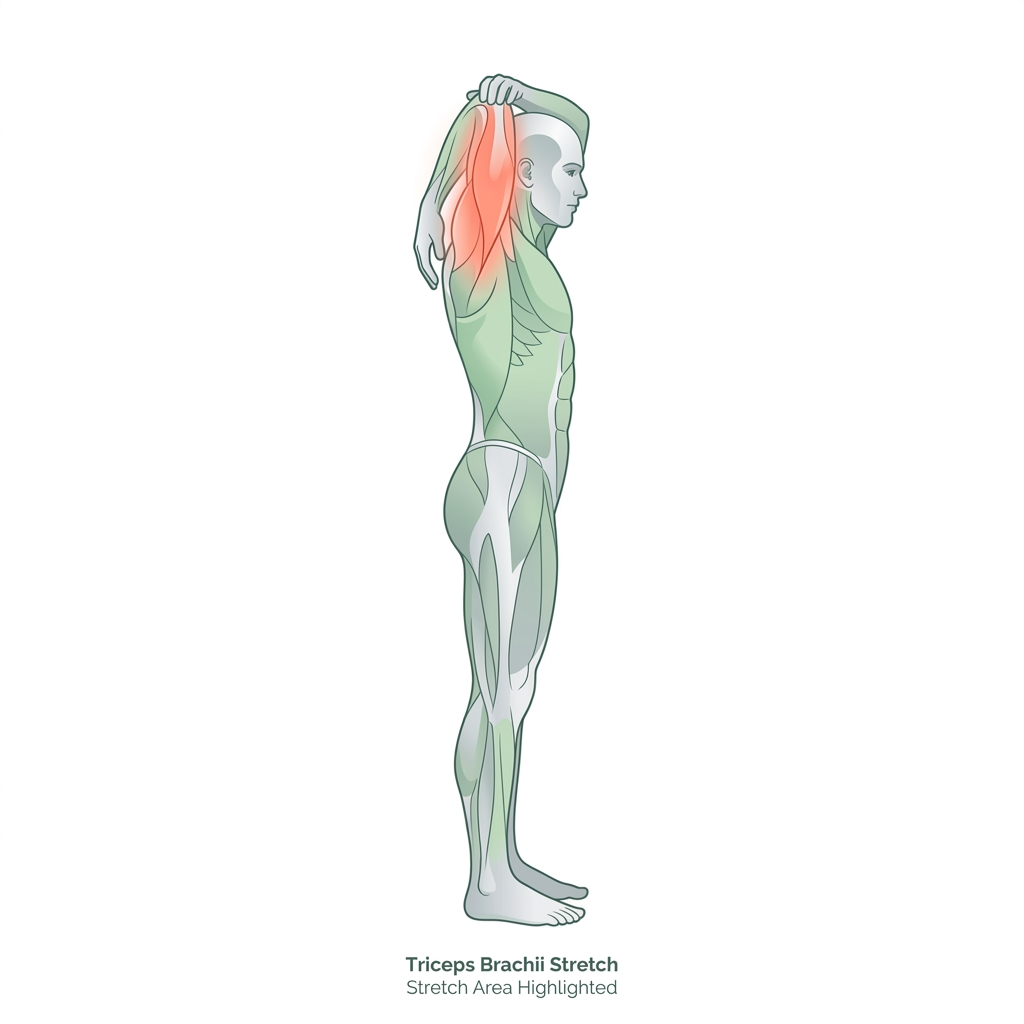
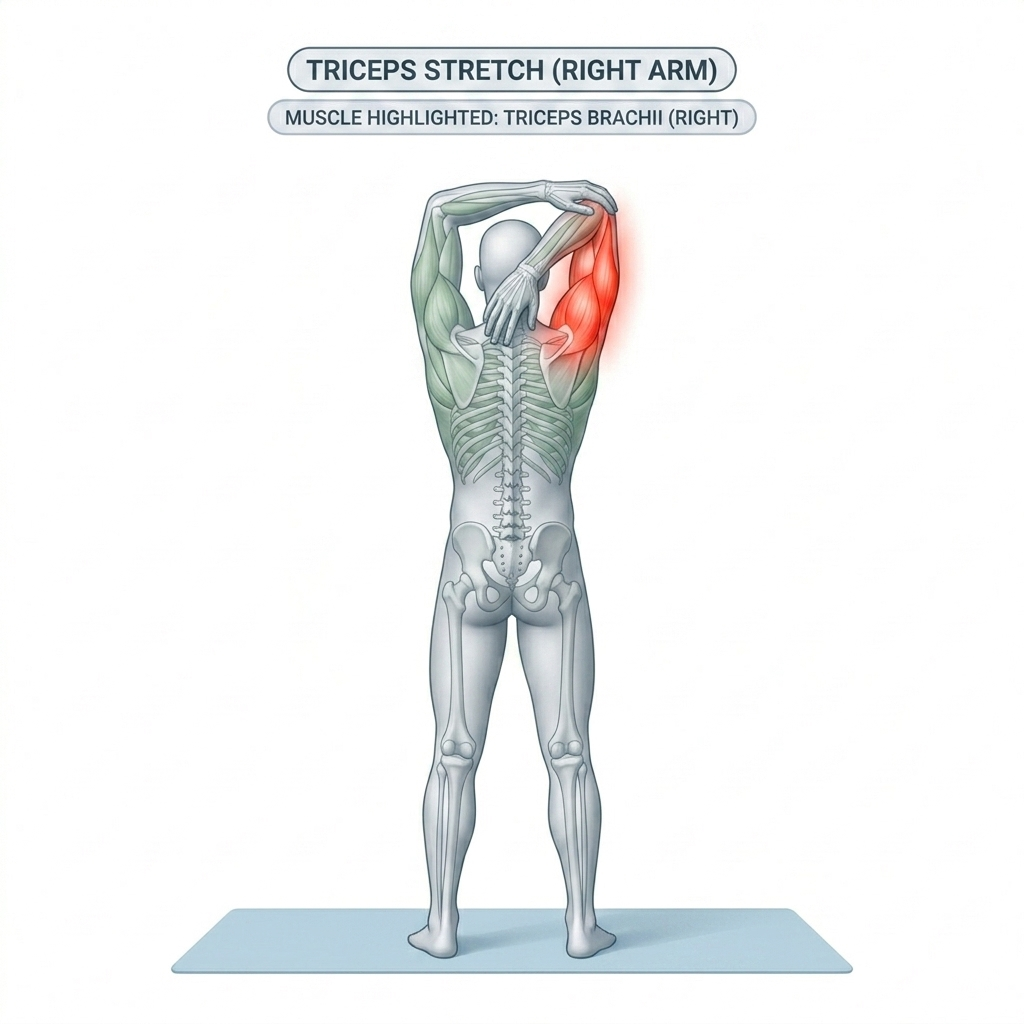
feat: add neck stretches (ex 13 and 14) and update images 2 and 4 to anatomically consistent renders

Changed region(s): [[0.1562, 0.0312, 0.8438, 0.9688]]

diff --git a/js/app.js b/js/app.js
@@ -586,6 +586,30 @@ document.addEventListener('DOMContentLoaded', () => {
       instrucao: "Puxe um joelho em direção ao peito com as duas mãos, mantendo a outra perna estendida e a coluna alinhada. Pode ser feito de pé ou deitado.",
       tempoSegundos: 10,
       dificuldade: "Médio"
+    },
+    {
+      id: "ex-13",
+      titulo: "13. Alongamento Cervical (Extensão)",
+      categoria: "pescoco-ombros",
+      categoriaLbl: "Pescoço e Ombros",
+      foco: "Cervical Anterior",
+      duracao: "10s",
+      desc: "Alonga a musculatura anterior do pescoço e alivia tensões cervicais causadas por longos períodos olhando para telas, postura inadequada ou estresse muscular.",
+      instrucao: "Coloque uma das mãos na região do queixo e incline lentamente a cabeça para trás empurrando suavemente, olhando para cima. Mantenha os ombros relaxados. Pode ser feito em pé ou sentado.",
+      tempoSegundos: 10,
+      dificuldade: "Fácil"
+    },
+    {
+      id: "ex-14",
+      titulo: "14. Alongamento Cervical (Flexão)",
+      categoria: "pescoco-ombros",
+      categoriaLbl: "Pescoço e Ombros",
+      foco: "Cervical Posterior",
+      duracao: "10s",
+      desc: "Alonga a região posterior do pescoço e parte superior das costas, ajudando no relaxamento muscular e na redução da tensão cervical.",
+      instrucao: "Entrelace as mãos atrás da cabeça e incline lentamente o pescoço para frente, aproximando o queixo do peito. Faça uma leve pressão com as mãos sem forçar. Pode ser feito em pé ou sentado.",
+      tempoSegundos: 10,
+      dificuldade: "Fácil"
     }
   ];
 

diff --git a/index.html b/index.html
@@ -241,7 +241,7 @@
             <span class="badge">Alongamentos</span>
             <h2 class="section-title">Alongamentos</h2>
             <p class="section-description">
-              Rotina física preventiva para os colaboradores. Execute cada um dos 12 alongamentos ilustrados no panfleto físico.
+              Rotina física preventiva para os colaboradores. Execute cada um dos 14 alongamentos ilustrados no panfleto físico.
             </p>
           </div>
           